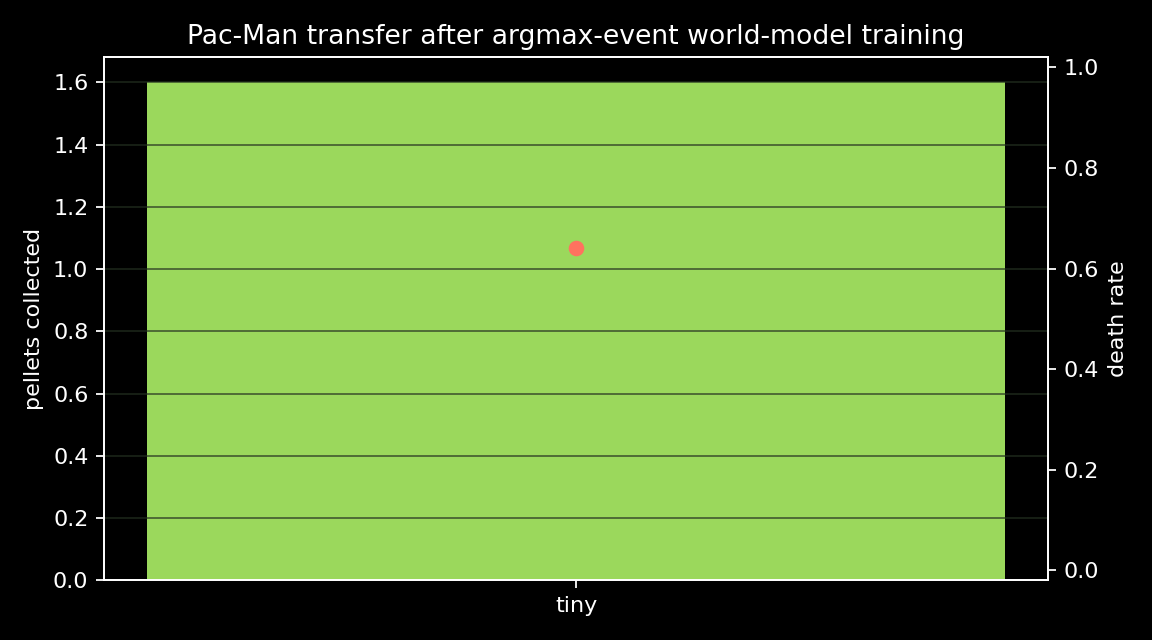
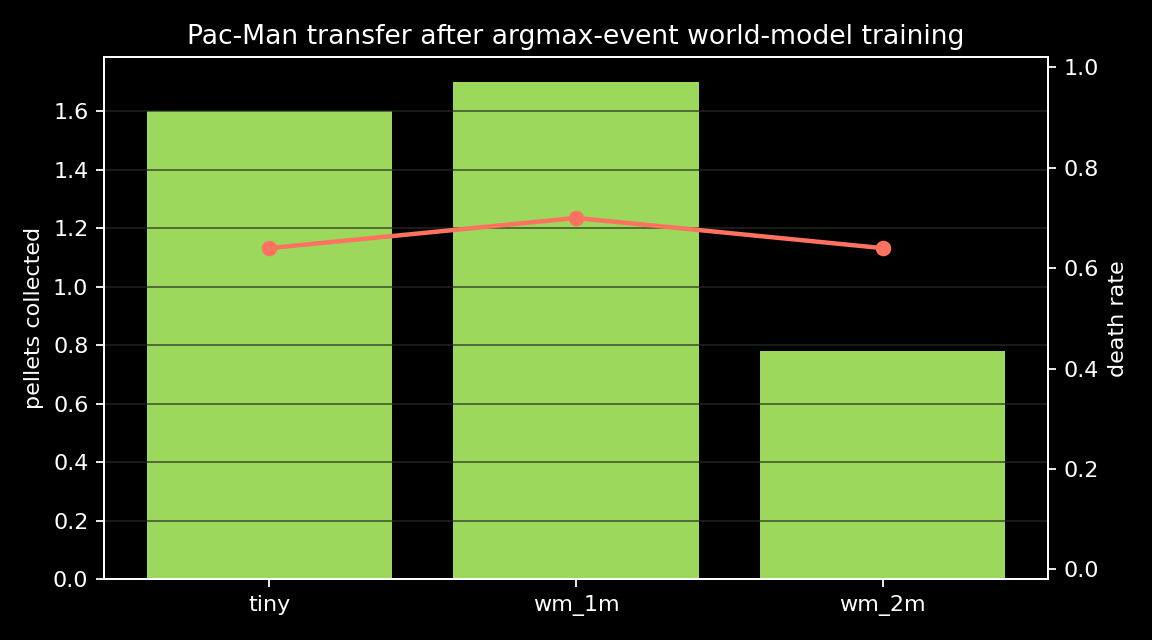
Add Pac-Man capacity results to paper

diff --git a/papers/main.tex b/papers/main.tex
@@ -159,10 +159,19 @@ No floating-point reward head or length head is used for control.
   \label{fig:pacman-rollout}
 \end{figure}
 
-The intended interpretation is capacity-based.
-If a tiny world model produces high hallucinated pellet reward but poor real-simulator pellet reward, then the policy has found a model-specific strategy even under discrete rewards.
-If larger world models reduce this transfer gap, then model capacity improves not only frame prediction but also the policy-relevant event dynamics.
-This is the central scaling question of the Pac-Man extension.
+\begin{figure}[t]
+  \centering
+  \includegraphics[width=\linewidth]{figures/pacman_wm2_vs_sim_rollout.png}
+  \caption{Pac-Man dataset frames compared with an autoregressive two-million-parameter world-model rollout under the same action sequence. The larger model improves short-horizon visual consistency, but policy transfer remains weak.}
+  \label{fig:pacman-rollout-wm2}
+\end{figure}
+
+The result is capacity-based but not solved.
+With the tiny Pac-Man world model, PPO discovers a strongly model-specific strategy: hallucinated evaluation reports about 244 predicted pellets per episode, while real random-map evaluation collects about 1.6 pellets and dies in 64\% of episodes.
+This is model exploitation despite hard argmax rewards.
+Increasing capacity to the one-million- and two-million-parameter models removes most of the hallucinated reward explosion, but it does not produce a strong transferred Pac-Man policy.
+The one-million-parameter policy collects about 1.7 pellets in the real simulator, and the two-million-parameter policy collects about 0.8 pellets.
+Thus the larger models are less obviously exploitable, but the learned worlds still are not good enough training environments for Pac-Man.
 
 \section{Discussion}
 The Snake result changes the original framing.
@@ -176,6 +185,9 @@ It moves the question to world-model capacity and domain complexity.
 Snake is almost fully observable from one frame, and the learned model transfers well.
 Pac-Man introduces moving ghosts, randomized mazes, and more complex visual dynamics.
 The relevant failure mode is therefore no longer fractional reward hacking, but policy optimization against an underpowered learned transition model.
+The tiny Pac-Man model shows the old failure mode in a cleaner form: even after removing fractional rewards, PPO can still exploit incorrect learned dynamics.
+The larger Pac-Man models show a different outcome: lower hallucinated reward, lower transfer gap, and still poor real performance.
+For this paper, that negative result is important because it separates ``the reward interface is wrong'' from ``the learned simulator is not yet accurate enough for control.''
 
 \section{Limitations}
 Both games are small deterministic simulators.

diff --git a/src/snake_wm_v2/export_argmax_paper_assets.py b/src/snake_wm_v2/export_argmax_paper_assets.py
@@ -31,6 +31,10 @@ def write(path: Path, text: str) -> None:
     path.write_text(text, encoding="utf-8")
 
 
+def tex(text: str) -> str:
+    return text.replace("_", r"\_")
+
+
 def snake_table(rows: list[dict], out: Path) -> None:
     lines = [
         r"\begin{tabular}{llrrrrr}",
@@ -90,7 +94,7 @@ def pacman_table(eval_root: Path, out: Path) -> list[dict]:
     ]
     for row in rows:
         lines.append(
-            f"{row['variant']} & {row['mode']} & {row['return']:.2f} & {row['pellets']:.2f} & "
+            f"{tex(row['variant'])} & {tex(row['mode'])} & {row['return']:.2f} & {row['pellets']:.2f} & "
             f"{row['steps']:.1f} & {row['death']:.2f} \\\\"
         )
     lines.extend([r"\bottomrule", r"\end{tabular}"])

diff --git a/papers/tables/pacman_argmax_summary.tex b/papers/tables/pacman_argmax_summary.tex
@@ -4,5 +4,9 @@ World model & Eval & Return & Pellets & Steps & Death \\
 \midrule
 tiny & hallucinated & 244.07 & 244.15 & 245.9 & 0.04 \\
 tiny & real & 0.96 & 1.60 & 187.3 & 0.64 \\
+wm\_1m & hallucinated & 1.62 & 1.75 & 223.4 & 0.13 \\
+wm\_1m & real & 1.00 & 1.70 & 155.8 & 0.70 \\
+wm\_2m & hallucinated & 1.04 & 1.19 & 217.8 & 0.15 \\
+wm\_2m & real & 0.14 & 0.78 & 185.6 & 0.64 \\
 \bottomrule
 \end{tabular}

diff --git a/README.md b/README.md
@@ -1,24 +1,43 @@
-# Snake Hallucinated Worlds
+# Discrete Event Rewards in Learned Visual Worlds
 
-Can a CNN learn to play Snake inside a learned visual world, then still play correctly in the real simulator?
+Can a CNN policy learn inside a learned video world, then still work in the real simulator?
 
-This repo is a small, visual world-model research project. We train a Snake video/world model, train a CNN policy inside that hallucinated environment, then evaluate whether the policy transfers back to the true code simulator.
+This repo is a visual world-model research project using two grid games:
+
+- Snake as the clean proof of concept.
+- Pac-Man as the harder stress test with moving ghosts, randomized connected mazes, and denser visuals.
+
+The key design change is simple: the world model predicts the next RGB frame plus discrete event logits. PPO receives hard `argmax` rewards, not fractional learned rewards.
 
 [Read the paper](paper.pdf)
 
 ![Snake simulator sequence](images/snake_environment_sequence.png)
 
-![Animated simulator versus world-model rollout](images/wm_vs_sim_rollout.gif)
+![Pac-Man simulator sequence](images/pacman_environment_sequence.png)
 
 ## What this is
 
-The world model sees a `128 x 128 x 3` RGB Snake frame and an action. It predicts the next frame plus two discrete events: whether the snake ate an apple and whether it died.
+The world model sees an RGB game frame and an action. It predicts:
 
-The point is not that Snake is hard. The point is that learned environments can be exploitable. A policy can look good inside the world model while failing in the real simulator, so we measure that hallucinated-vs-real transfer gap directly.
+- the next RGB frame,
+- whether the reward item was collected,
+- whether the agent died.
 
-The GIF above shows the same action sequence rolled through the real simulator and the learned world model. The bottom row highlights drift as the rollout gets longer.
+The point is not that Snake or Pac-Man require learned simulators. The point is to measure when a CNN trained in a learned visual simulator transfers back to the true code simulator.
+
+Snake works as a sanity check. A one-frame event world model is good enough for PPO to train a CNN policy that transfers to the real Snake simulator.
+
+![Animated Snake simulator versus world-model rollout](images/wm_vs_sim_rollout.gif)
 
 ![World-model rollout grid](images/wm_vs_sim_rollout.png)
+
+Pac-Man is harder. A tiny Pac-Man world model is exploitable even with hard `argmax` rewards: hallucinated evaluation reports about 244 pellets, while real random-map evaluation collects about 1.6 pellets. Larger world models remove most of the hallucinated reward explosion, but still do not train a strong transferred Pac-Man policy.
+
+![Pac-Man random map](images/pacman_random_map.png)
+
+![Pac-Man tiny world-model rollout](images/pacman_wm_vs_sim_rollout.png)
+
+![Pac-Man 2M world-model rollout](images/pacman_wm2_vs_sim_rollout.png)
 
 ## Interactive world-model UI
 
@@ -89,15 +108,53 @@ snake-train-cnn-agent \
   --wandb-mode online
 ```
 
+Pac-Man uses the same event-model pipeline:
+
+```bash
+pacman-generate-data \
+  --out runs/datasets/pacman_random_30k \
+  --max-transitions 30000 \
+  --random-map
+```
+
+```bash
+snake-train-wm \
+  --dataset runs/datasets/pacman_random_30k \
+  --out runs/pacman_argmax_matrix/world_models/wm_2m \
+  --variant wm_2m \
+  --steps 16000 \
+  --batch-size 16 \
+  --wandb-mode online
+```
+
+```bash
+snake-train-cnn-agent \
+  --dataset runs/datasets/pacman_random_30k \
+  --world-model runs/pacman_argmax_matrix/world_models/wm_2m/latest.pt \
+  --out runs/pacman_argmax_matrix/policies/wm_2m_small_hard \
+  --policy small \
+  --updates 180 \
+  --reward-decoder hard \
+  --wandb-mode online
+```
+
+```bash
+pacman-evaluate-policy \
+  --policy runs/pacman_argmax_matrix/policies/wm_2m_small_hard/latest.pt \
+  --out runs/pacman_argmax_matrix/evals/wm_2m_small_hard_real_random \
+  --mode real \
+  --random-map
+```
+
 ## Results at a glance
 
 World-model drift matters more than one-step frame loss alone. The policy optimizer can discover mistakes that are not obvious from static validation metrics.
 
 ![World-model drift curve](images/wm_drift_curve.png)
 
-The paper compares hallucinated training performance against real-simulator evaluation across world-model size, context length, policy size, and reward objective.
+The paper compares hallucinated training performance against real-simulator evaluation under the hard event-reward interface.
 
-![Objective scatter](images/objective_scatter.png)
+![Pac-Man transfer plot](images/pacman_argmax_transfer.png)
 
 ## Repo layout
 
@@ -112,6 +169,10 @@ Large generated artifacts are intentionally not committed. Checkpoints, datasets
 
 ## W&B
 
-Event-model project:
+Snake event-model project:
 
 <https://wandb.ai/anothervibecoder-i-unemplyed/snake-hallucinated-worlds-event>
+
+Pac-Man event-model project:
+
+<https://wandb.ai/anothervibecoder-i-unemplyed/snake-hallucinated-worlds-pacman>